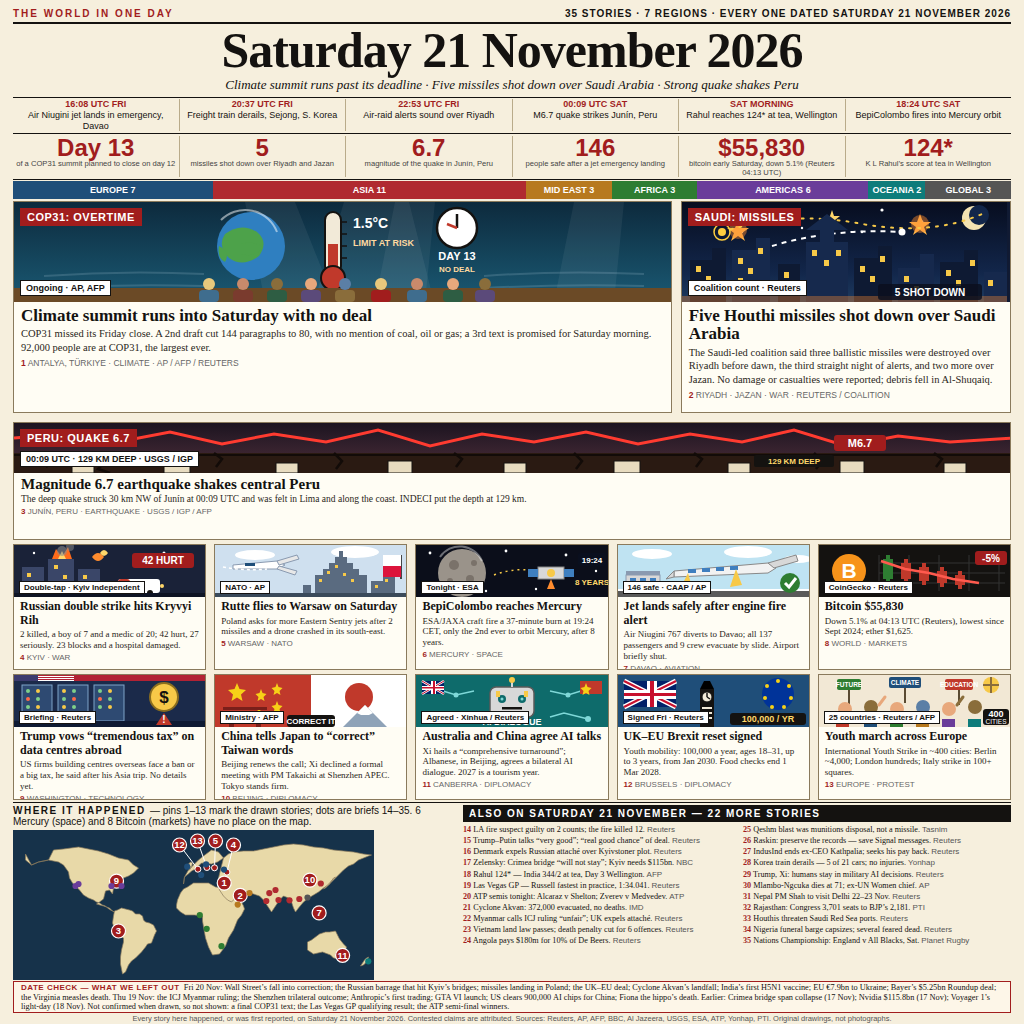
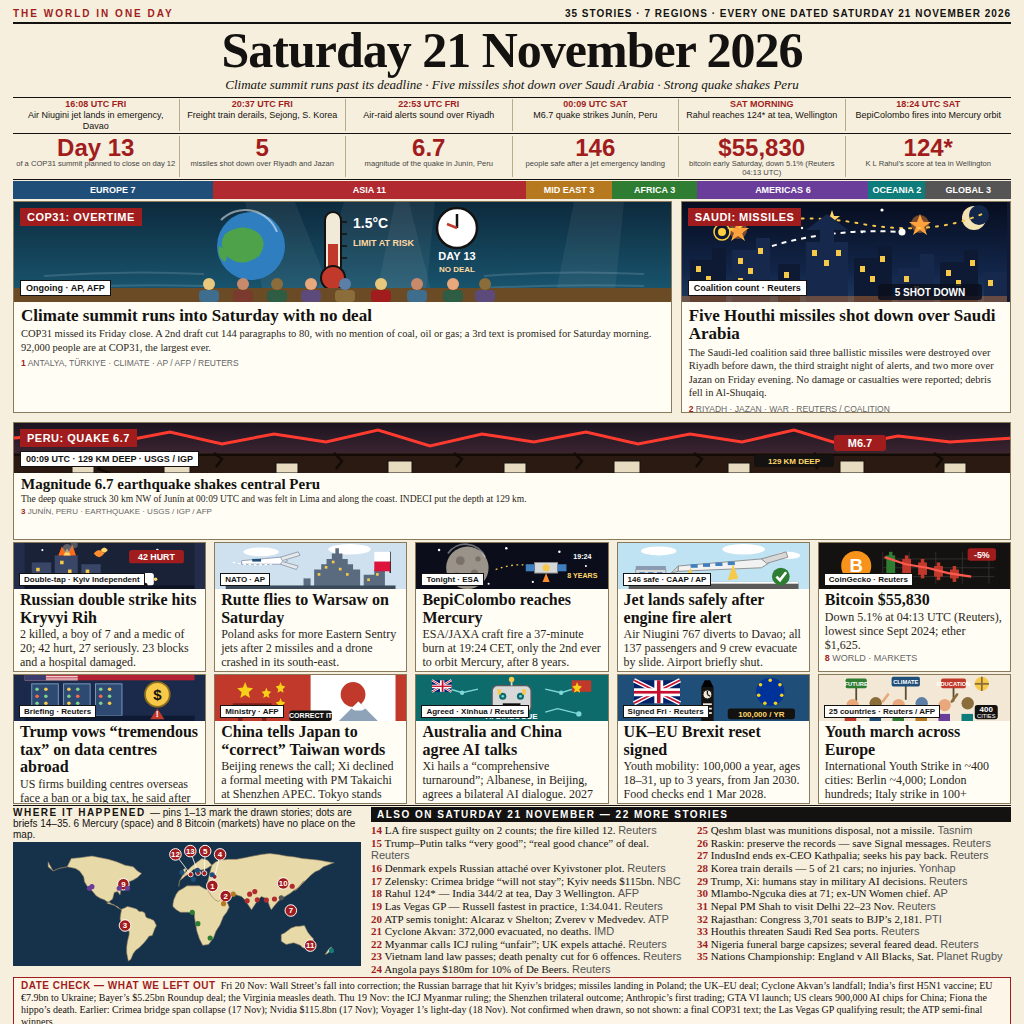
news-image-20261121 v7: readability rework (secondary 16px headlines, map 34% / briefs 66%, 40px footer) + Saudi Jazan dated to Friday evening

Changed region(s): [[0.0, 0.5312, 1.0, 1.0], [0.6562, 0.3438, 0.9688, 0.4062]]

diff --git a/page.html b/page.html
@@ -36,27 +36,27 @@ h1{font-size:50px;line-height:1.02;text-align:center;letter-spacing:-1px;padding
 .leadperu p{font-size:9.5px;line-height:1.2;padding:0 7px 2px;color:#2a2620}
 .leadperu .src{font-size:8px;padding:0 7px 3px}
 .num{color:#a11d1d;font-weight:700}
-.cards{display:flex;gap:8px;margin-top:4px}
-.card{flex:1;border:1px solid #8a7a5c;background:#fffdf4;height:126px;overflow:hidden}
-.card .art{height:52px;position:relative;overflow:hidden}
-.card .art svg{display:block}
+.cards{display:flex;gap:8px;margin-top:2px}
+.card{flex:1;border:1px solid #8a7a5c;background:#fffdf4;height:130px;overflow:hidden}
+.card .art{height:46px;position:relative;overflow:hidden}
+.card .art svg{display:block;width:100%;height:100%}
 .lead .art svg{display:block}
 .card .cap{position:absolute;bottom:3px;left:5px;background:#fff;font-family:Arial,sans-serif;font-size:8px;font-weight:700;padding:1px 4px;border:1px solid #141210}
-.card h3{font-size:12px;line-height:1.12;padding:3px 6px 2px}
-.card p{font-size:9px;line-height:1.22;padding:0 6px 2px;color:#2a2620}
-.card .src{font-family:Arial,sans-serif;font-size:8px;color:#666;padding:0 6px}
-.bottom{display:flex;gap:10px;margin-top:2px;border-top:1px solid #141210;padding-top:2px}
-.mapbox{width:440px;flex:none}
-.mapbox h4,.briefs h4{font-family:Arial,sans-serif;font-size:10px;letter-spacing:1.5px;margin-bottom:3px}
+.card h3{font-size:16px;font-weight:700;line-height:1.1;padding:2px 6px 1px}
+.card p{font-size:12px;line-height:1.17;padding:0 6px 1px;color:#2a2620}
+.card .src{font-family:Arial,sans-serif;font-size:9px;color:#666;padding:0 6px 2px}
+.bottom{display:flex;gap:10px;margin-top:1px;border-top:1px solid #141210;padding-top:1px}
+.mapbox{width:348px;flex:none}
+.mapbox h4,.briefs h4{font-family:Arial,sans-serif;font-size:10px;letter-spacing:1.5px;margin-bottom:2px}
 .mapbox h4 span{font-weight:400;letter-spacing:0;text-transform:none}
 .briefs{flex:1}
-.briefs h4{background:#141210;color:#fff;padding:3px 6px}
-.briefs ol{list-style:none;columns:2;column-gap:12px;font-size:8.2px;line-height:1.16}
-.briefs li{margin-bottom:1.6px;break-inside:avoid}
+.briefs h4{background:#141210;color:#fff;padding:2px 6px}
+.briefs ol{list-style:none;columns:2;column-gap:12px;font-size:11px;line-height:1.15}
+.briefs li{margin-bottom: 0;break-inside:avoid}
 .briefs b{color:#a11d1d}
-.briefs i{color:#555;font-style:normal;font-family:Arial,sans-serif;font-size:8px}
-.foot{margin-top:1px;border:1.5px solid #a11d1d;padding:1px 7px;font-size:8.3px;line-height:1.14;background:#fdf6e8}
-.foot b{color:#a11d1d;font-family:Arial,sans-serif;font-size:8px;letter-spacing:.5px}
+.briefs i{color:#555;font-style:normal;font-family:Arial,sans-serif;font-size:11px}
+.foot{margin-top:1px;border:1.5px solid #a11d1d;padding:2px 7px;font-size:10px;line-height:1.2;background:#fdf6e8}
+.foot b{color:#a11d1d;font-family:Arial,sans-serif;font-size:10px;letter-spacing:.5px}
 .srcs{margin-top:1px;font-family:Arial,sans-serif;font-size:7.5px;color:#555;text-align:center}
 </style></head><body><div class="page">
 <div class="kick"><span>THE WORLD IN ONE DAY</span><span>35 STORIES &middot; 7 REGIONS &middot; EVERY ONE DATED SATURDAY 21 NOVEMBER 2026</span></div>
@@ -102,7 +102,7 @@ h1{font-size:50px;line-height:1.02;text-align:center;letter-spacing:-1px;padding
 <svg width="325" height="100" viewBox="0 0 325 100"><defs><linearGradient id="gSau" x1="0" y1="0" x2="0" y2="1"><stop offset="0" stop-color="#070d1f"/><stop offset="0.7" stop-color="#12264a"/><stop offset="1" stop-color="#1d3a5f"/></linearGradient></defs><rect x="0" y="0" width="325" height="100" fill="url(#gSau)"/><g fill="#fff"><circle cx="30" cy="14" r="1.6"/><circle cx="90" cy="10" r="1.6"/><circle cx="150" cy="18" r="1.4"/><circle cx="200" cy="8" r="1.6"/><circle cx="240" cy="20" r="1.4"/><circle cx="120" cy="26" r="1.2"/><circle cx="60" cy="30" r="1.2"/><circle cx="180" cy="30" r="1.2"/></g><circle cx="292" cy="16" r="12" fill="#f4e3b2"/><circle cx="297" cy="13" r="10" fill="#12264a"/><g><path d="M56 18 L59 26 L67 26 L60 31 L63 39 L56 34 L49 39 L52 31 L45 26 L53 26Z" fill="#ffb347"/><circle cx="56" cy="28" r="9" fill="#ff8c2e" opacity="0.45"/><path d="M238 12 L241 20 L249 20 L242 25 L245 33 L238 28 L231 33 L234 25 L227 20 L235 20Z" fill="#ffb347"/><circle cx="238" cy="22" r="9" fill="#ff8c2e" opacity="0.45"/><path d="M150 8 L152 14 L158 14 L153 18 L155 24 L150 20 L145 24 L147 18 L142 14 L148 14Z" fill="#ffd76a"/></g><path d="M40 30 Q110 8 180 22 Q250 34 300 12" stroke="#f7c948" stroke-width="2" fill="none" stroke-dasharray="2 7" stroke-linecap="round"/><circle cx="40" cy="30" r="4" fill="#ffcf3f"/><circle cx="40" cy="30" r="8" fill="none" stroke="#ffcf3f" stroke-width="1.5"/><path d="M90 44 Q150 26 220 30" stroke="#fff" stroke-width="2" fill="none" stroke-dasharray="5 5"/><circle cx="220" cy="30" r="3.5" fill="#fff"/><g><path d="M8 100 L8 58 L30 58 L30 46 L44 46 L44 100Z" fill="#0e1a33"/><path d="M50 100 L50 48 L74 48 L74 36 L88 36 L88 100Z" fill="#16294d"/><path d="M96 100 L96 62 L118 62 L118 100Z" fill="#0e1a33"/><path d="M124 100 L124 40 L138 40 L138 28 L152 28 L152 40 L166 40 L166 100Z" fill="#16294d"/><path d="M124 28 L145 12 L166 28Z" fill="#16294d"/><path d="M172 100 L172 56 L196 56 L196 44 L210 44 L210 100Z" fill="#0e1a33"/><path d="M216 100 L216 66 L238 66 L238 52 L252 52 L252 100Z" fill="#16294d"/><path d="M258 100 L258 60 L282 60 L282 48 L296 48 L296 100Z" fill="#0e1a33"/><path d="M302 100 L302 70 L325 70 L325 100Z" fill="#16294d"/></g><g fill="#f7c948"><rect x="14" y="64" width="5" height="6"/><rect x="24" y="74" width="5" height="6"/><rect x="14" y="84" width="5" height="6"/><rect x="56" y="56" width="5" height="6"/><rect x="66" y="66" width="5" height="6"/><rect x="56" y="76" width="5" height="6"/><rect x="76" y="46" width="5" height="6"/><rect x="102" y="70" width="5" height="6"/><rect x="130" y="48" width="5" height="6"/><rect x="142" y="58" width="5" height="6"/><rect x="154" y="48" width="5" height="6"/><rect x="178" y="64" width="5" height="6"/><rect x="188" y="74" width="5" height="6"/><rect x="198" y="54" width="5" height="6"/><rect x="222" y="74" width="5" height="6"/><rect x="232" y="84" width="5" height="6"/><rect x="264" y="68" width="5" height="6"/><rect x="274" y="78" width="5" height="6"/><rect x="288" y="58" width="5" height="6"/><rect x="306" y="78" width="5" height="6"/></g><rect x="0" y="94" width="325" height="6" fill="#ff8c2e" opacity="0.35"/><rect x="196" y="82" width="104" height="16" rx="3" fill="#0a0f1e" opacity="0.85"/><text x="248" y="94" font-family="Arial" font-size="10" font-weight="700" fill="#fff" text-anchor="middle">5 SHOT DOWN</text></svg>
 <span class="flag">SAUDI: MISSILES</span><span class="tag">Coalition count &middot; Reuters</span></div>
 <h2>Five Houthi missiles shot down over Saudi Arabia</h2>
-<p>The Saudi-led coalition said three ballistic missiles were destroyed over Riyadh before dawn, the third straight night of alerts, and two more over Jazan. No damage or casualties were reported; debris fell in Al-Shuqaiq.</p>
+<p>The Saudi-led coalition said three ballistic missiles were destroyed over Riyadh before dawn, the third straight night of alerts, and two more over Jazan on Friday evening. No damage or casualties were reported; debris fell in Al-Shuqaiq.</p>
 <div class="src"><span class="num">2</span> RIYADH &middot; JAZAN &middot; WAR &middot; REUTERS / COALITION</div>
 </div>
 </div>
@@ -184,7 +184,7 @@ h1{font-size:50px;line-height:1.02;text-align:center;letter-spacing:-1px;padding
 <div class="bottom">
 <div class="mapbox">
 <h4>WHERE IT HAPPENED <span>&mdash; pins 1&ndash;13 mark the drawn stories; dots are briefs 14&ndash;35. 6 Mercury (space) and 8 Bitcoin (markets) have no place on the map.</span></h4>
-<svg width="361" height="150" viewBox="0 0 360 150" style="background:#16324a;display:block">
+<svg width="348" height="124" viewBox="0 0 360 150" style="background:#16324a;display:block">
 <g fill="#e8d9a8" stroke="#8a7a5c" stroke-width=".7">
 <path d="M12 24 L18 35 L25 32 L35 30 L40 20 L50 19 L65 17 L85 21 L95 24 L105 28 L115 30 L120 35 L125 38 L120 43 L115 46 L110 48 L105 52 L104 56 L100 58 L99 64 L96 60 L92 61 L90 69 L86 72 L83 74 L90 76 L93 77 L96 78 L99 81 L101 82 L97 80 L94 78 L92 76 L89 75 L86 73 L83 72 L80 70 L75 68 L70 65 L66 60 L63 57 L59 53 L56 48 L55 42 L50 35 L45 32 L35 30 L25 32 L18 35 L12 30 Z"/>
 <path d="M101 81 L104 80 L108 78 L112 79 L116 80 L119 81 L122 84 L126 84 L129 86 L130 90 L132 92 L136 93 L140 95 L143 101 L141 105 L138 113 L134 114 L132 117 L128 122 L125 125 L122 128 L118 131 L115 135 L112 142 L109 144 L107 134 L107 127 L108 120 L110 112 L110 108 L105 105 L102 100 L100 96 L99 93 L100 86 Z"/>
